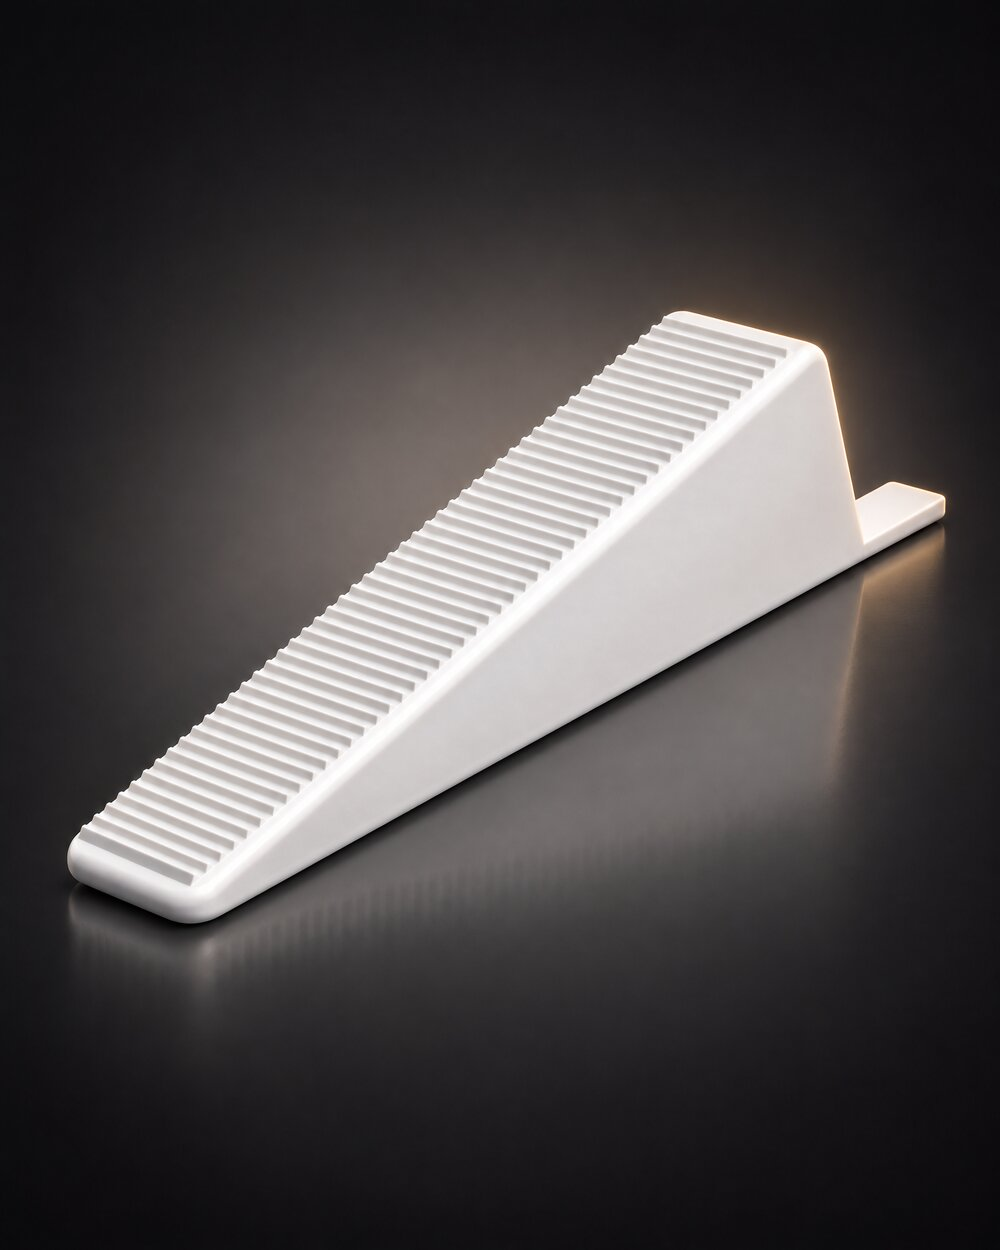
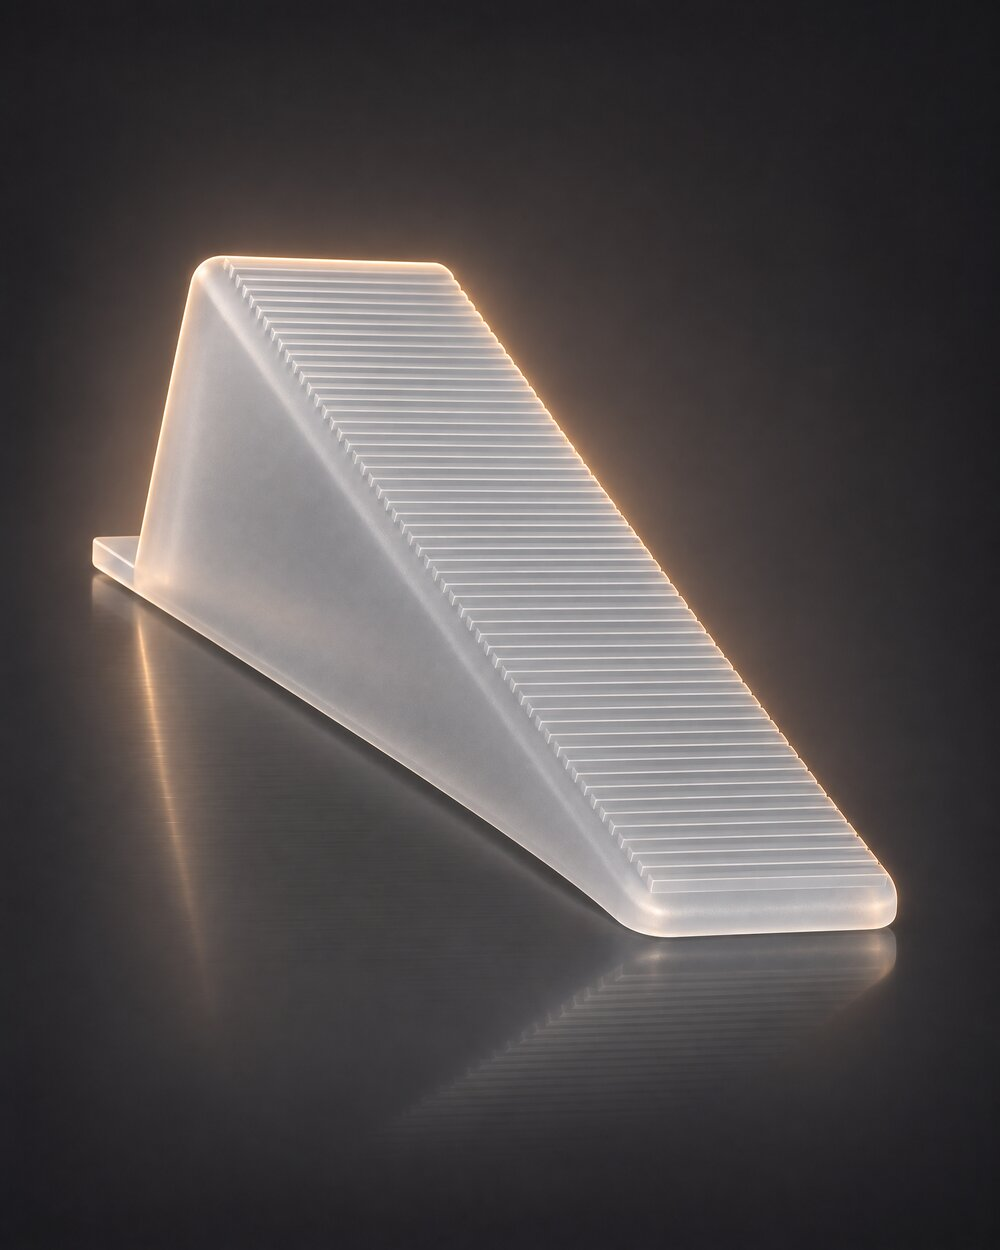
Kuña Antimanchas: foto con el mismo tamaño que la Kuña Niveladora y plástico translúcido
Claude-Session: https://claude.ai/code/session_014cBYmrNEKojMjrjPTHrxaz

diff --git a/src/data/azulejos.ts b/src/data/azulejos.ts
@@ -58,7 +58,7 @@ export const TILE_PRODUCTS: TileProduct[] = [
     title: 'Kuña Antimanchas para baldosas claras | KREOX',
     description: 'Kuña Antimanchas KREOX: evita el marcado de las baldosas sin protectores. Con aleta para que los alicates no toquen la superficie. Losas de 3 a 15 mm.',
     img: kunaAnti,
-    alt: 'Kuña antimanchas KREOX con aleta para proteger baldosas claras',
+    alt: 'Kuña Antimanchas KREOX de plástico translúcido, con aleta para proteger baldosas claras',
     intro: 'Pensada y desarrollada para evitar el marcado de las baldosas sin necesidad de usar protectores.',
     body: 'Abarca espesores de losa de 3 a 15 mm sin suplementos y queda centrada entre ambas baldosas. Gracias a la aleta, los Alikates no tienen contacto directo con la superficie y la presión es igual en toda ella.',
     presentacion: ['Bolsa de 300 unidades'],
